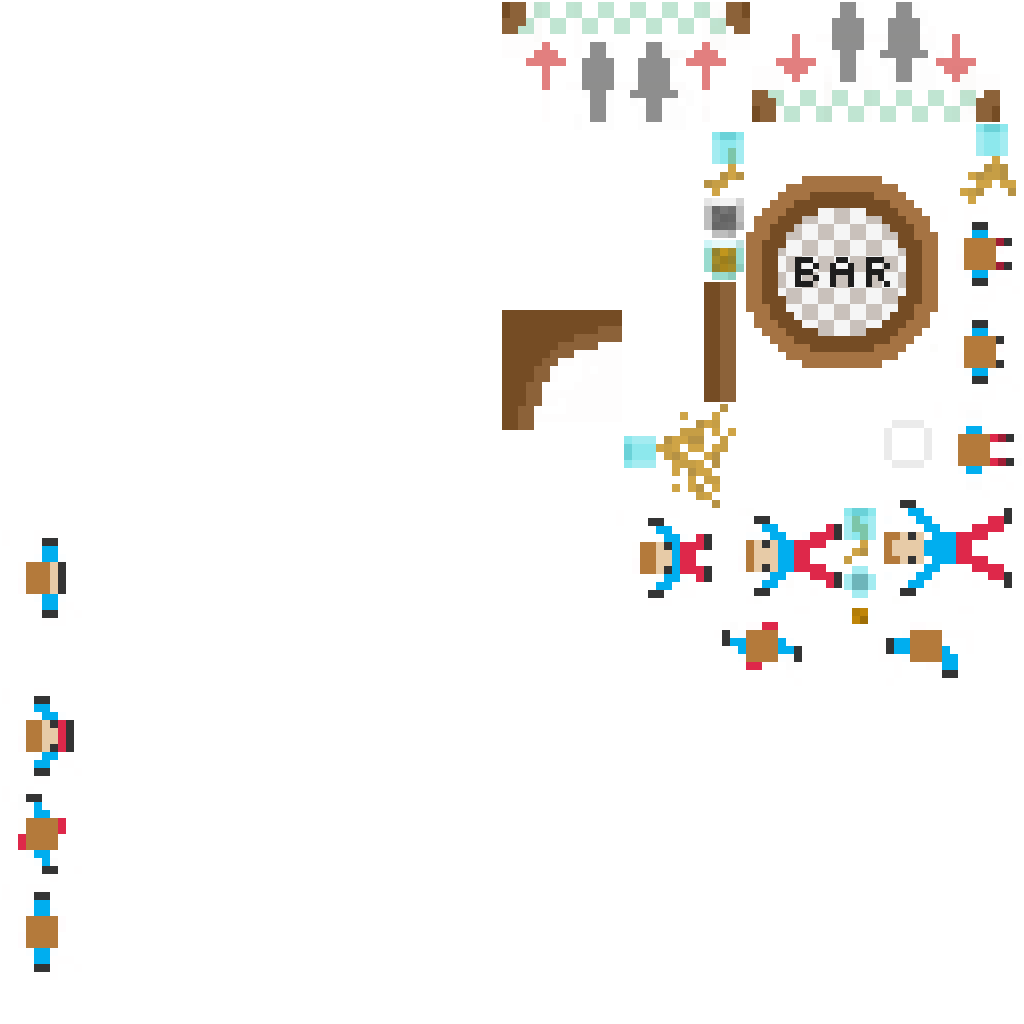
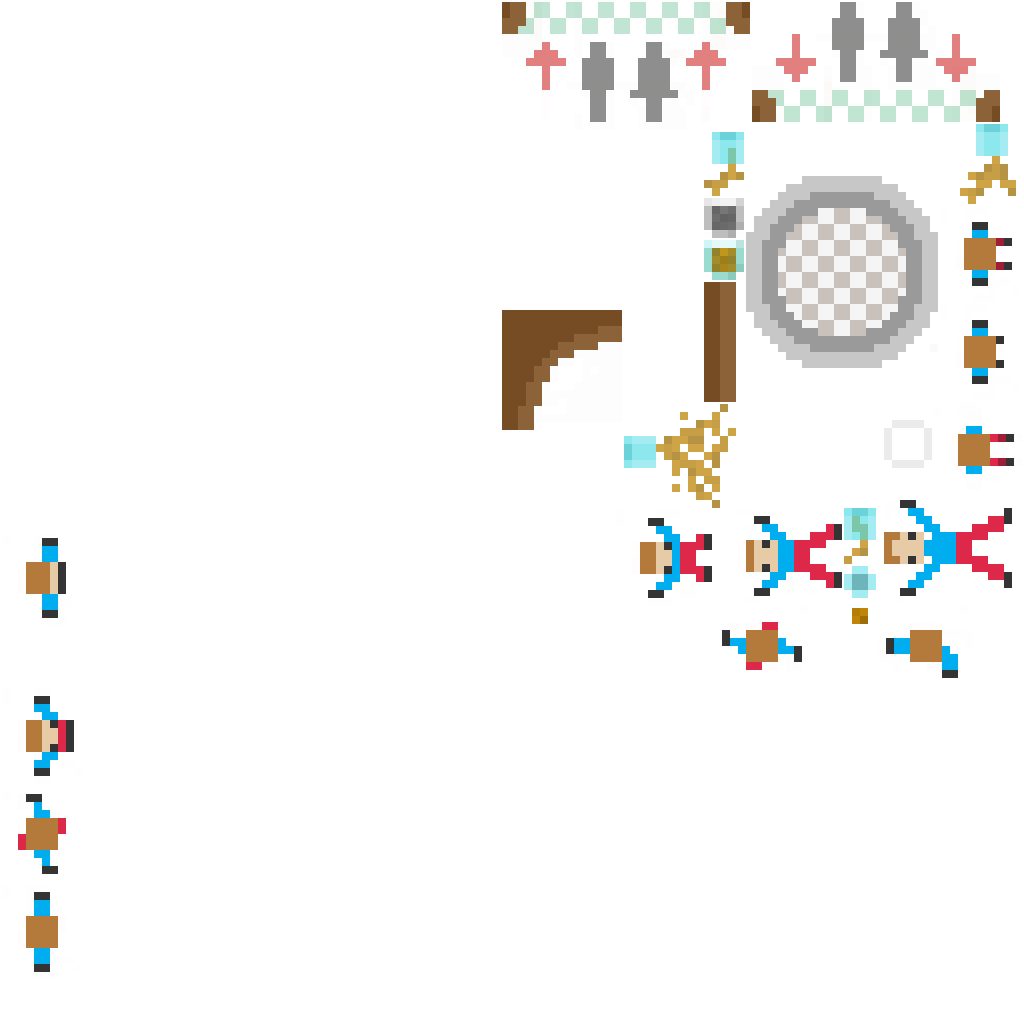
drastically rearranged bar

Changed region(s): [[0.7188, 0.1562, 0.9375, 0.375]]

diff --git a/Assets/Resources/Scripts/Game/SBGameScene.cs b/Assets/Resources/Scripts/Game/SBGameScene.cs
@@ -27,8 +27,6 @@ public class SBGameScene : FStage, FSingleTouchableInterface {
 		AddChild(backgroundLayer);
 			
 		bar = new SBBar();
-		bar.x = Futile.screen.halfWidth;
-		bar.y = Futile.screen.halfHeight;
 		AddChild(bar);
 				
 		drinkers = new List<SBEntity>();
@@ -45,7 +43,7 @@ public class SBGameScene : FStage, FSingleTouchableInterface {
 		
 		specialBarStool2 = new SBBarStool("special bar stool 2", new Color(1.0f, 0.3f, 0.5f, 1.0f));
 		specialBarStool2.x = Futile.screen.width - 100f;
-		specialBarStool2.y = Futile.screen.height - SBConfig.TOP_UI_HEIGHT - 100f;
+		specialBarStool2.y = 100f;
 		specialBarStool2.tag = 2;
 		specialBarStool2.ProgressBarComponent().progressBar.isVisible = false;
 		specialBarStool2.SittableComponent().isSpecial = true;
@@ -54,22 +52,24 @@ public class SBGameScene : FStage, FSingleTouchableInterface {
 		
 		drinker1 = new SBDrinker("drinker 1");
 		drinker1.tag = 1;
-		drinker1.x = 100f;
-		drinker1.y = Futile.screen.height - SBConfig.TOP_UI_HEIGHT - 100f;
+		drinker1.SpriteComponent(1).sprite.color = new Color(0.3f, 0.5f, 1.0f, 1.0f);
+		drinker1.x = Futile.screen.halfWidth - 100f;
+		drinker1.y = (Futile.screen.height - SBConfig.TOP_UI_HEIGHT) / 2f;
 		drinker1.ProgressBarComponent().progressBar.isVisible = false;
 		drinker1.ProgressBarComponent().progressBar.y += 60f;
-		drinker1.DirectionComponent().FaceDirection(Direction.Right, true);
+		drinker1.DirectionComponent().FaceDirection(Direction.Left, true);
 		//drinker1.SpriteComponent().sprite.color = new Color(0.3f, 0.5f, 1.0f, 1.0f);
 		drinkers.Add(drinker1);
 		AddChild(drinker1);
 
 		drinker2 = new SBDrinker("drinker 2");
 		drinker2.tag = 2;
-		drinker2.x = Futile.screen.width - 100f;
-		drinker2.y = 100f;
+		drinker2.SpriteComponent(1).sprite.color = new Color(1.0f, 0.3f, 0.5f, 1.0f);
+		drinker2.x = Futile.screen.halfWidth + 100f;
+		drinker2.y = (Futile.screen.height - SBConfig.TOP_UI_HEIGHT) / 2f;
 		drinker2.ProgressBarComponent().progressBar.isVisible = false;
 		drinker2.ProgressBarComponent().progressBar.y -= 60f;
-		drinker2.DirectionComponent().FaceDirection(Direction.Left, true);
+		drinker2.DirectionComponent().FaceDirection(Direction.Right, true);
 		//drinker2.SpriteComponent().sprite.color = new Color(1.0f, 0.3f, 0.5f, 1.0f);
 		drinkers.Add(drinker2);
 		AddChild(drinker2);
@@ -307,7 +307,8 @@ public class SBGameScene : FStage, FSingleTouchableInterface {
 			updatedPoint = bar.CollideComponent().PointToAvoidCollidingFixedRectWithMovingEntity(bottomRightWallRect, drinker, updatedPoint.x, updatedPoint.y);
 			updatedPoint = bar.CollideComponent().PointToAvoidCollidingFixedRectWithMovingEntity(topLeftWallRect, drinker, updatedPoint.x, updatedPoint.y);
 			updatedPoint = bar.CollideComponent().PointToAvoidCollidingFixedRectWithMovingEntity(topRightWallRect, drinker, updatedPoint.x, updatedPoint.y);
-			updatedPoint = bar.CollideComponent().PointToAvoidCollidingFixedRectWithMovingEntity(bar.SpriteComponent(0).GetGlobalRect().CloneWithExpansion(-10f), drinker, updatedPoint.x, updatedPoint.y);
+			updatedPoint = bar.CollideComponent().PointToAvoidCollidingFixedRectWithMovingEntity(bar.SpriteComponent(0).GetGlobalRect().CloneWithExpansion(-70f), drinker, updatedPoint.x, updatedPoint.y);
+			updatedPoint = bar.CollideComponent().PointToAvoidCollidingFixedRectWithMovingEntity(bar.SpriteComponent(1).GetGlobalRect().CloneWithExpansion(-70f), drinker, updatedPoint.x, updatedPoint.y);
 			
 			drinker.x = updatedPoint.x;
 			drinker.y = updatedPoint.y;

diff --git a/Assets/Resources/Scripts/Game/SBBar.cs b/Assets/Resources/Scripts/Game/SBBar.cs
@@ -7,9 +7,19 @@ public class SBBar : SBEntity {
 	
 	public SBBar() : base("bar") {
 		SBSpriteComponent sc = new SBSpriteComponent("bar.psd", false);
-		sc.name = "bar sprite component";
+		sc.name = "bar sprite component 1";
+		sc.sprite.color = new Color(0.3f, 0.5f, 1.0f, 1.0f);
+		sc.sprite.x = Futile.screen.width - SBConfig.BORDER_WIDTH;
+		sc.sprite.y = Futile.screen.height - SBConfig.TOP_UI_HEIGHT - SBConfig.BORDER_WIDTH;
 		AddComponent(sc);
 		
+		sc = new SBSpriteComponent("bar.psd", false);
+		sc.name = "bar sprite component 2";
+		sc.sprite.color = new Color(1.0f, 0.3f, 0.5f, 1.0f);
+		sc.sprite.x = SBConfig.BORDER_WIDTH;
+		sc.sprite.y = Futile.screen.height - SBConfig.TOP_UI_HEIGHT - SBConfig.BORDER_WIDTH;
+		AddComponent(sc);
+
 		SBCollideComponent cc = new SBCollideComponent();
 		cc.name = "bar collide component";
 		AddComponent(cc);
@@ -32,7 +42,7 @@ public class SBBar : SBEntity {
 		
 		float barStoolMargin = 150f;
 		
-		for (int i = 0; i < 8; i++) {
+		/*for (int i = 0; i < 8; i++) {
 			SBBarStool barStool = new SBBarStool(string.Format("barStool{0}", i), new Color(165f/255f, 115f/255f, 67f/255f));
 			if (i == 5 || i == 6 || i == 7) {
 				barStool.ProgressBarComponent().progressBar.y -= 45f;	
@@ -43,7 +53,25 @@ public class SBBar : SBEntity {
 			barStool.y = barStoolMargin * Mathf.Sin(i * 45 * Mathf.Deg2Rad);
 			barStools.Add(barStool);
 			AddChild(barStool);
-		}
+		}*/
+		
+		SBBarStool barStool = new SBBarStool(string.Format("barStool1"), new Color(0.3f, 0.5f, 1.0f, 1.0f));
+		barStool.ProgressBarComponent().progressBar.y -= 45f;
+		barStool.ProgressBarComponent().progressBar.isVisible = false;
+		barStool.x = Futile.screen.width - 135f;;
+		barStool.y = (Futile.screen.height - SBConfig.TOP_UI_HEIGHT) - 135f;
+		barStool.tag = 1;
+		barStools.Add(barStool);
+		AddChild(barStool);
+		
+		barStool = new SBBarStool(string.Format("barStool2"), new Color(1.0f, 0.3f, 0.5f, 1.0f));
+		barStool.ProgressBarComponent().progressBar.y -= 45f;
+		barStool.ProgressBarComponent().progressBar.isVisible = false;
+		barStool.x = 135f;
+		barStool.y = (Futile.screen.height - SBConfig.TOP_UI_HEIGHT) - 135f;
+		barStool.tag = 2;
+		barStools.Add(barStool);
+		AddChild(barStool);
 	}
 	
 	override public void HandleUpdate() {
@@ -51,6 +79,14 @@ public class SBBar : SBEntity {
 			barStool.HandleUpdate();
 			if (barStool.SittableComponent().currentDrinker != null && !barStool.SittableComponent().currentDrinker.HasDrink() && barStool.TimerComponent().timer > SBConfig.DRINK_WAIT_TIME) {
 				SBDrink drink = new SBDrink("drink");
+				if (barStool.tag == 1) {
+					drink.x = Futile.screen.width - SBConfig.BORDER_WIDTH;
+					drink.y = Futile.screen.height - SBConfig.TOP_UI_HEIGHT - SBConfig.BORDER_WIDTH;
+				}
+				else if (barStool.tag == 2) {
+					drink.x = SBConfig.BORDER_WIDTH;
+					drink.y = Futile.screen.height - SBConfig.TOP_UI_HEIGHT - SBConfig.BORDER_WIDTH;
+				}
 				AddChild(drink);
 				barStool.SittableComponent().currentDrinker.TakeDrink(drink);
 			}

diff --git a/Assets/Resources/Scripts/Game/SBConfig.cs b/Assets/Resources/Scripts/Game/SBConfig.cs
@@ -11,8 +11,8 @@ public enum Direction {
 
 public static class SBConfig {
 	public const float BATHROOM_WIDTH = 248f;
-	public const float DRINKER_MAX_VELOCITY = 300f;
-	public const float DRINKER_ACCELERATION_CONSTANT = 400f;
+	public const float DRINKER_MAX_VELOCITY = 500f;
+	public const float DRINKER_ACCELERATION_CONSTANT = 600f;
 	public const float DRINKER_MIN_FRAME_DURATION = 0.2f;
 	public const float DRINKER_MAX_FRAME_DURATION = 0.4f;
 	public const float TOP_UI_HEIGHT = 60f;
@@ -20,18 +20,9 @@ public static class SBConfig {
 	public const float DRINK_WAIT_TIME = 4.0f;
 	public const float DRINK_DRINK_TIME = 4.0f;
 	public const float MAX_BLADDER_CAPACITY = 2.5f;	
-	public const float BLADDER_FILL_TIME = 4.0f; // per drink
+	public const float BLADDER_FILL_TIME = 16.0f; // per drink
 	public const float PEE_TIME = 1.0f; // per drink
-	public const int DRINKS_TO_WIN = 1;
-	
-	// drunk adjustment stuff
-	/*public const float BASE_DRUNK_LEAN_VELOCITY_ADDER = 15f;
-	public const float BASE_LIKELIHOOD_OF_VARIATION = 0.15f;
-	public const float BASE_DRUNK_LEAN_MAX_VELOCITY = 200;
-	public const float BASE_LIKELIHOOD_OF_TURN_AROUND = 0.0015f;
-	public const float DRUNK_LEAN_MAX_VELOCITY_MULTIPLIER = 1f;
-	public const float DRUNK_LEAN_MULTIPLIER_MULTIPLIER = 1f;
-	public const float MIN_SLOW_DOWN_EFFECT = 0.8f;*/
+	public const int DRINKS_TO_WIN = 7;
 		
 	public const KeyCode ATTACK_BUTTON_1 = KeyCode.C;
 	public const KeyCode ATTACK_BUTTON_2 = KeyCode.J;

diff --git a/Assets/Resources/Scripts/Components/SBSittableComponent.cs b/Assets/Resources/Scripts/Components/SBSittableComponent.cs
@@ -27,7 +27,7 @@ public class SBSittableComponent : SBAbstractComponent {
 	
 	public bool CanSeatDrinker(SBDrinker drinker) {
 		bool canSit = currentDrinker == null && !drinker.isBeingControlledBySittableComponent;
-		if (isSpecial) canSit = canSit && owner.tag == drinker.tag;
+		canSit = canSit && owner.tag == drinker.tag;
 		
 		return canSit;
 	}

diff --git a/Assets/Resources/Scripts/Components/SBSpriteComponent.cs b/Assets/Resources/Scripts/Components/SBSpriteComponent.cs
@@ -31,7 +31,7 @@ public class SBSpriteComponent : SBAbstractComponent {
 	
 	public void StartAnimation(WTAnimation animation) {
 		if (currentAnimation != null) {
-			StopAnimation();
+			PauseAnimation();
 		}
 
 		currentAnimation = animation;
